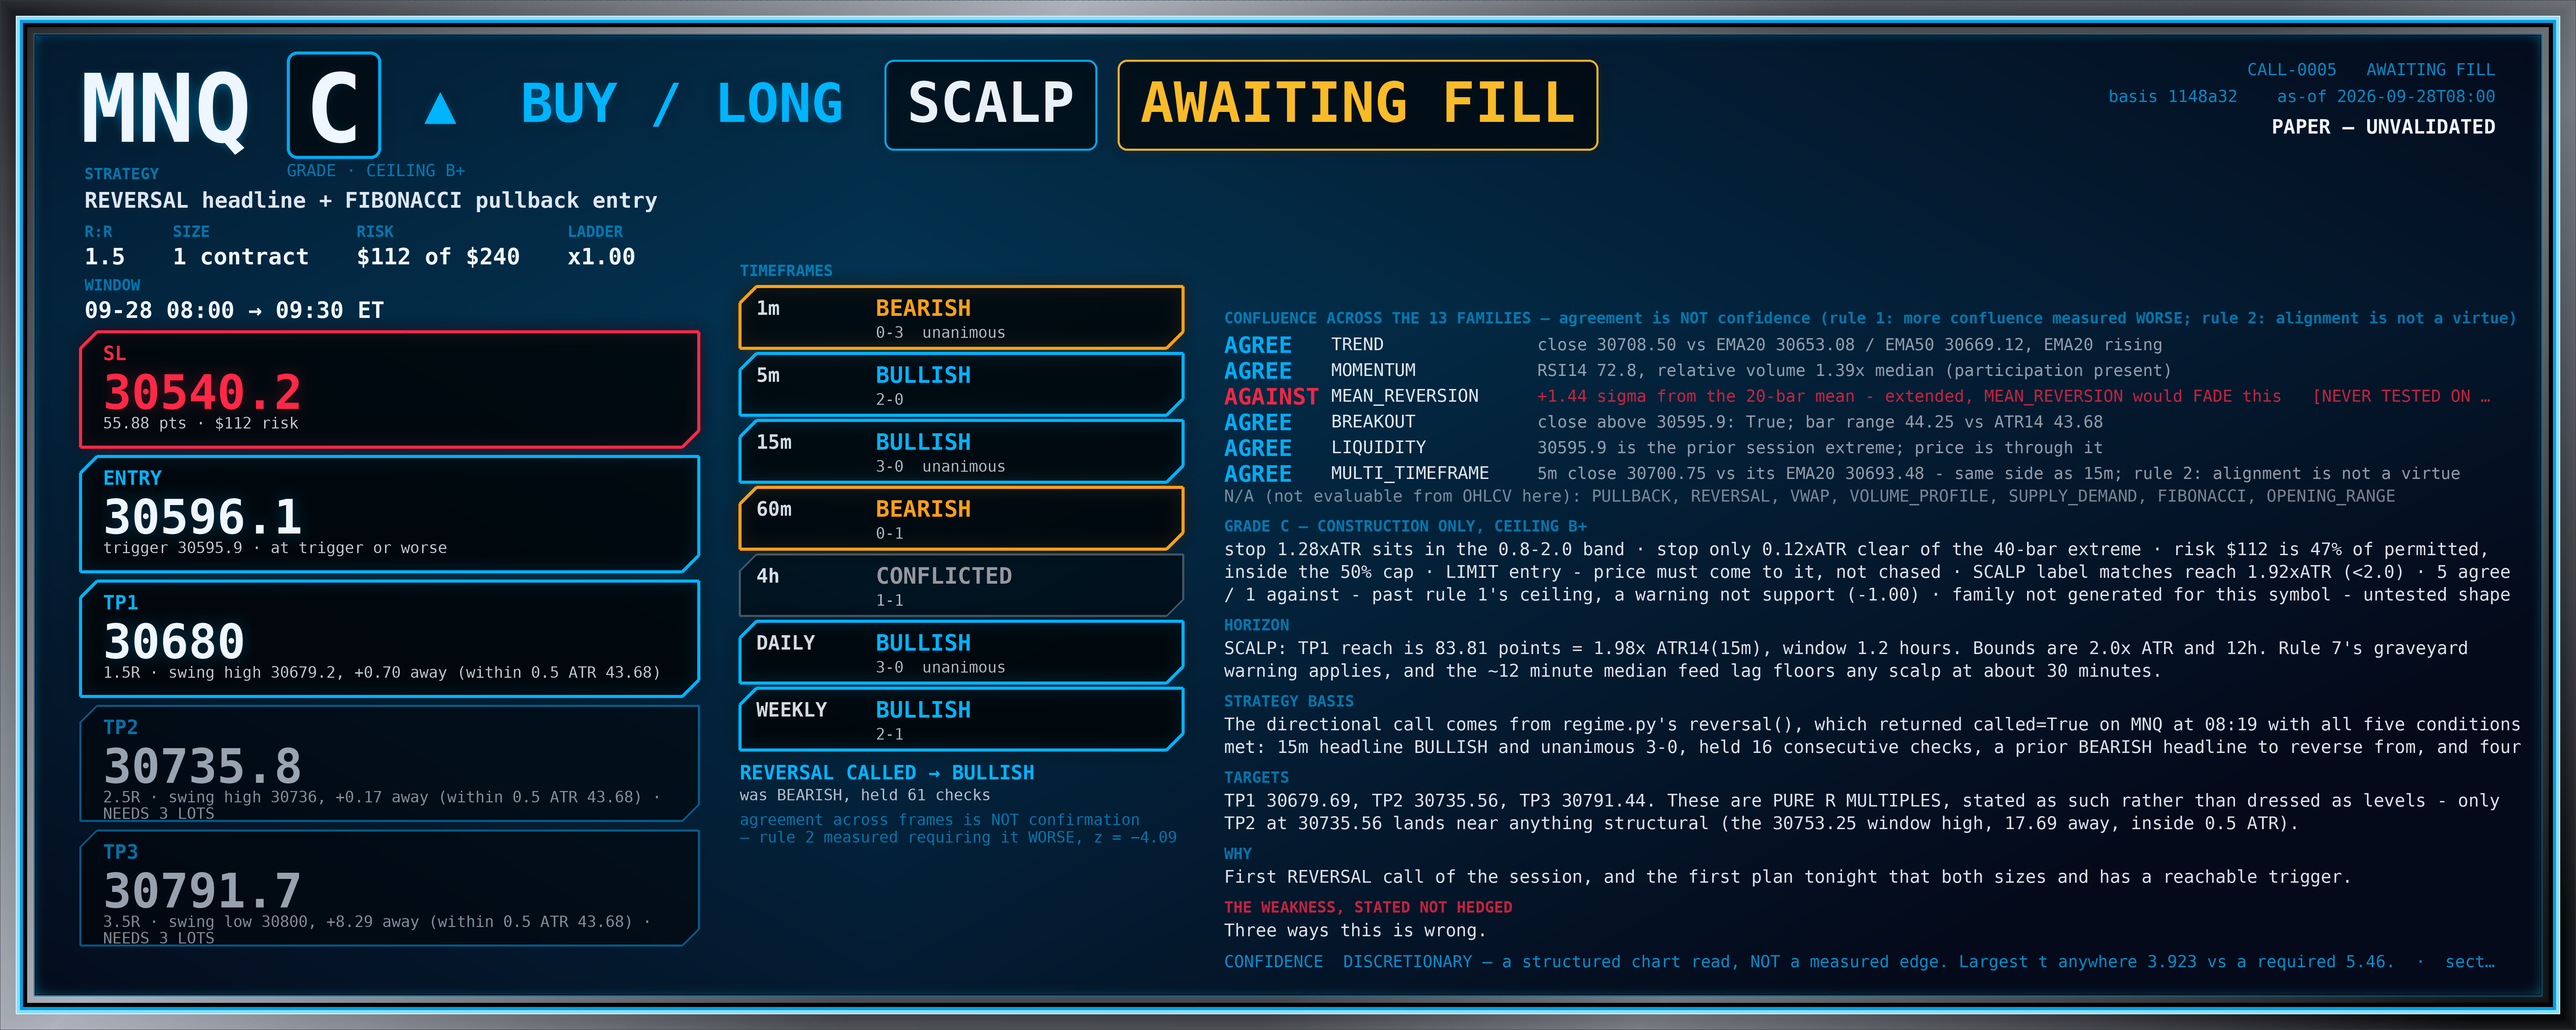
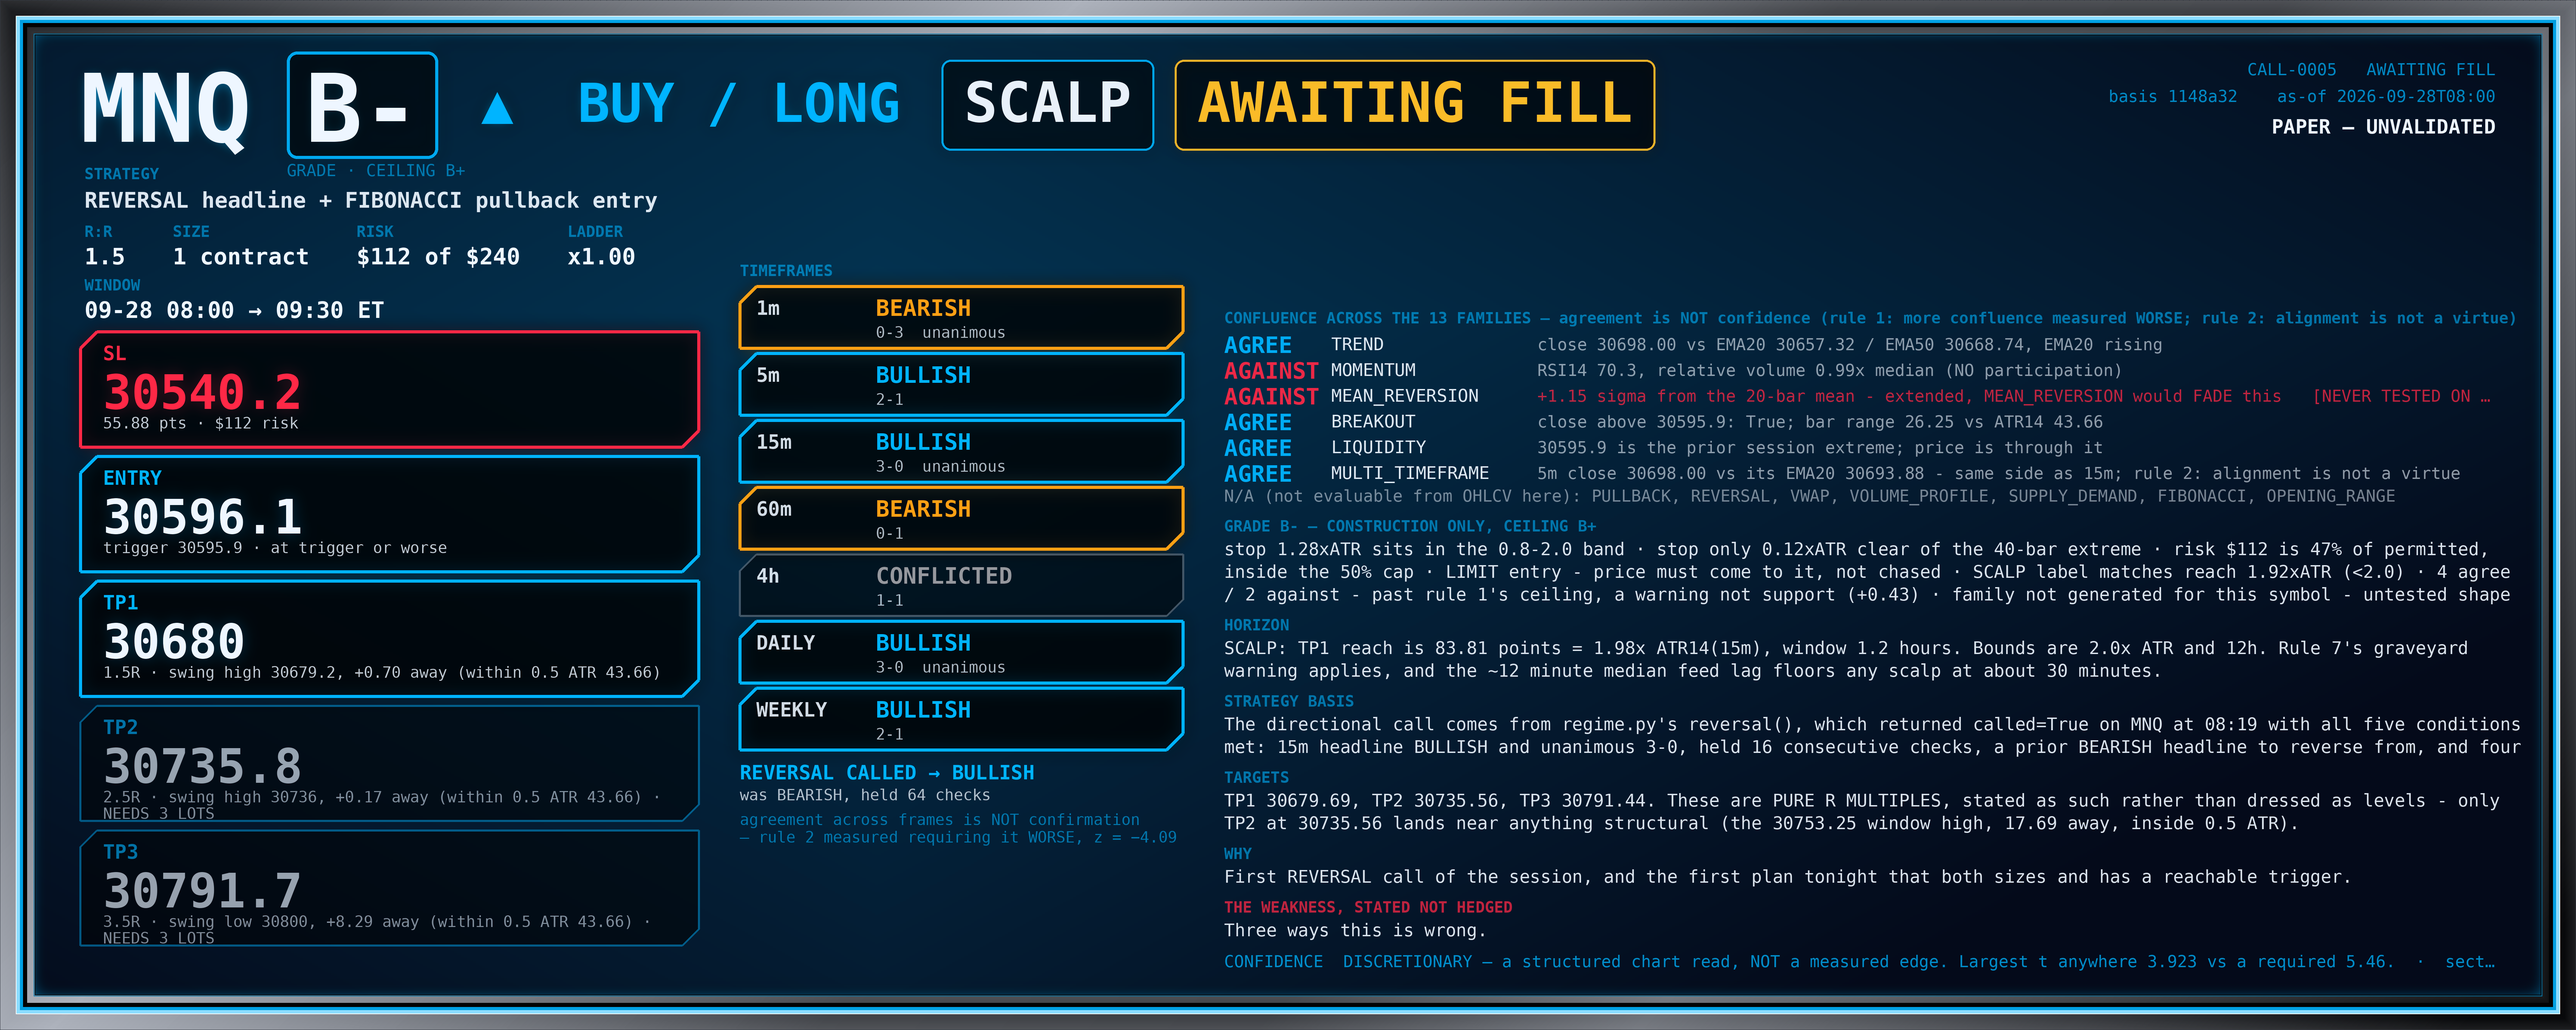
CALL desk: N170 - MNQ RTH IS OPEN; for the first time all session a symbol is inside a measured window
09:30 has passed, so MNQ's RTH (09:30-16:00) is open. Every reading, plan and declined setup from
the start of this session until three minutes ago was taken OUTSIDE both symbols' regular sessions,
which CALLOUT.md is explicit about: a callout outside a contract's RTH is outside everything this
repo has measured. MGC's RTH opened at 08:20 and MNQ's has now followed.

Worth saying plainly because it reframes the night's record: roughly ten hours of checks, four
pre-registered plans, two resolved non-fills, eleven NO TRADE entries and one defective fill, all in
a regime the programme never tested. Nothing invalidates the discipline - the corrections, revision
distributions, settled-bar rule and exclusion hold regardless of session - but every DIRECTIONAL
observation carries that caveat, and from here they no longer do.

Fifteenth settled pair, both down: MGC 4186.50 -> 4179.60 (-6.90), MNQ 30739.25 -> 30708.50 (-30.75).
Settled tally since 04:15: MGC +2.70, MNQ +85.75.

MNQ: REVERSAL still called, held 63, 15m BULL 3-0 unanimous against a 1m BEAR 0-3 unanimous, 5m BULL
2-1, 60m BEAR 0-1, 4h CONFLICTED, DAILY BULL 3-0. Trend BULL with a rising EMA20, structure BULL,
location 74.5% of [30535.00, 30753.75] - the pullback has taken it from 96.9% over five checks.

MGC: every frame bearish with 15m and 60m both 0-3 unanimous, trend BEAR on a falling EMA20,
structure BEAR, location 9.9% of [4172.60, 4233.20]. Reversal blocked on the single unsatisfiable
condition.
[…]

diff --git a/workspace/paper/CALL/NOTES.md b/workspace/paper/CALL/NOTES.md
@@ -6039,3 +6039,43 @@ has at every reading from +$38 through $0 to +$95 and now +$83.**
 
 No new call. 1 open (excluded), 2 pending; equity $50,000.00, drawdown $0.00, full $2,800 to the absorbing state.
 **MNQ RTH opens in two minutes.**
+
+## N170 — MNQ RTH IS OPEN. For the first time in this entire session, a symbol is inside a window this repository has measured
+
+**09:30 ET has passed: MNQ's RTH session (09:30-16:00) is open.** Every reading, every plan and every declined
+setup from the start of this session until three minutes ago was taken **outside** both symbols' regular sessions
+— which CALLOUT.md is explicit about: *"A callout outside a contract's RTH is outside everything this repo has
+ever measured."* MGC's RTH (08:20-13:30) opened at 08:20, and MNQ's has now followed.
+
+That deserves saying plainly because it reframes the whole night's record: **roughly ten hours of checks, four
+pre-registered plans, two resolved non-fills, eleven NO TRADE entries and one defective fill, all in a regime the
+programme never tested.** Nothing about that invalidates the discipline — the corrections, the revision
+distributions, the settled-bar rule and the exclusion all hold regardless of session — but every *directional*
+observation carries that caveat, and from here they no longer do.
+
+Fifteenth settled pair, and both symbols fell:
+
+| symbol | settled `08:45` | settled `09:00` | change |
+|---|---|---|---|
+| MGC | 4186.50 | **4179.60** | **−6.90** |
+| MNQ | 30739.25 | **30708.50** | **−30.75** |
+
+Settled tally since `04:15`: MGC **+2.70**, MNQ **+85.75**.
+
+MNQ: **REVERSAL still called, `held 63`**, 15m BULL 3-0 unanimous against a **1m BEAR 0-3 unanimous**, 5m BULL
+2-1, 60m BEAR 0-1, 4h CONFLICTED, DAILY BULL 3-0 unanimous. Trend BULL (30698.00 > EMA20 30655.68, rising),
+structure BULL, location **74.5%** of [30535.00, 30753.75] — the pullback has taken it from 96.9% to 74.5% over
+five checks.
+
+MGC: every frame bearish, **15m and 60m both 0-3 unanimous**, trend BEAR (4178.60 < EMA20 4186.61, falling),
+structure BEAR, location **9.9%** of [4172.60, 4233.20]. Reversal blocked on the single unsatisfiable condition.
+
+**CALL-0005 has NOT expired.** Direct test: MNQ's newest stored 15m bar is `09:15` and there are no bars stamped
+after 09:30. The `09:45` bar completes at 10:00 and should be in hand around **10:01** — exactly as N86's
+arithmetic said when the plan was written. The limit sits far below an unreachable distance and the outcome is
+not in doubt; only its timing is.
+
+**The excluded position**: +7.80 points / **+$78.00** unrealised, TP1 8.20 away. N155's exclusion unchanged.
+
+No new call. MNQ at 74.5% inside a called reversal with an unreachable plan is not a new setup, and MGC's path is
+closed. 1 open (excluded), 2 pending; equity $50,000.00, drawdown $0.00, full $2,800 to the absorbing state.
